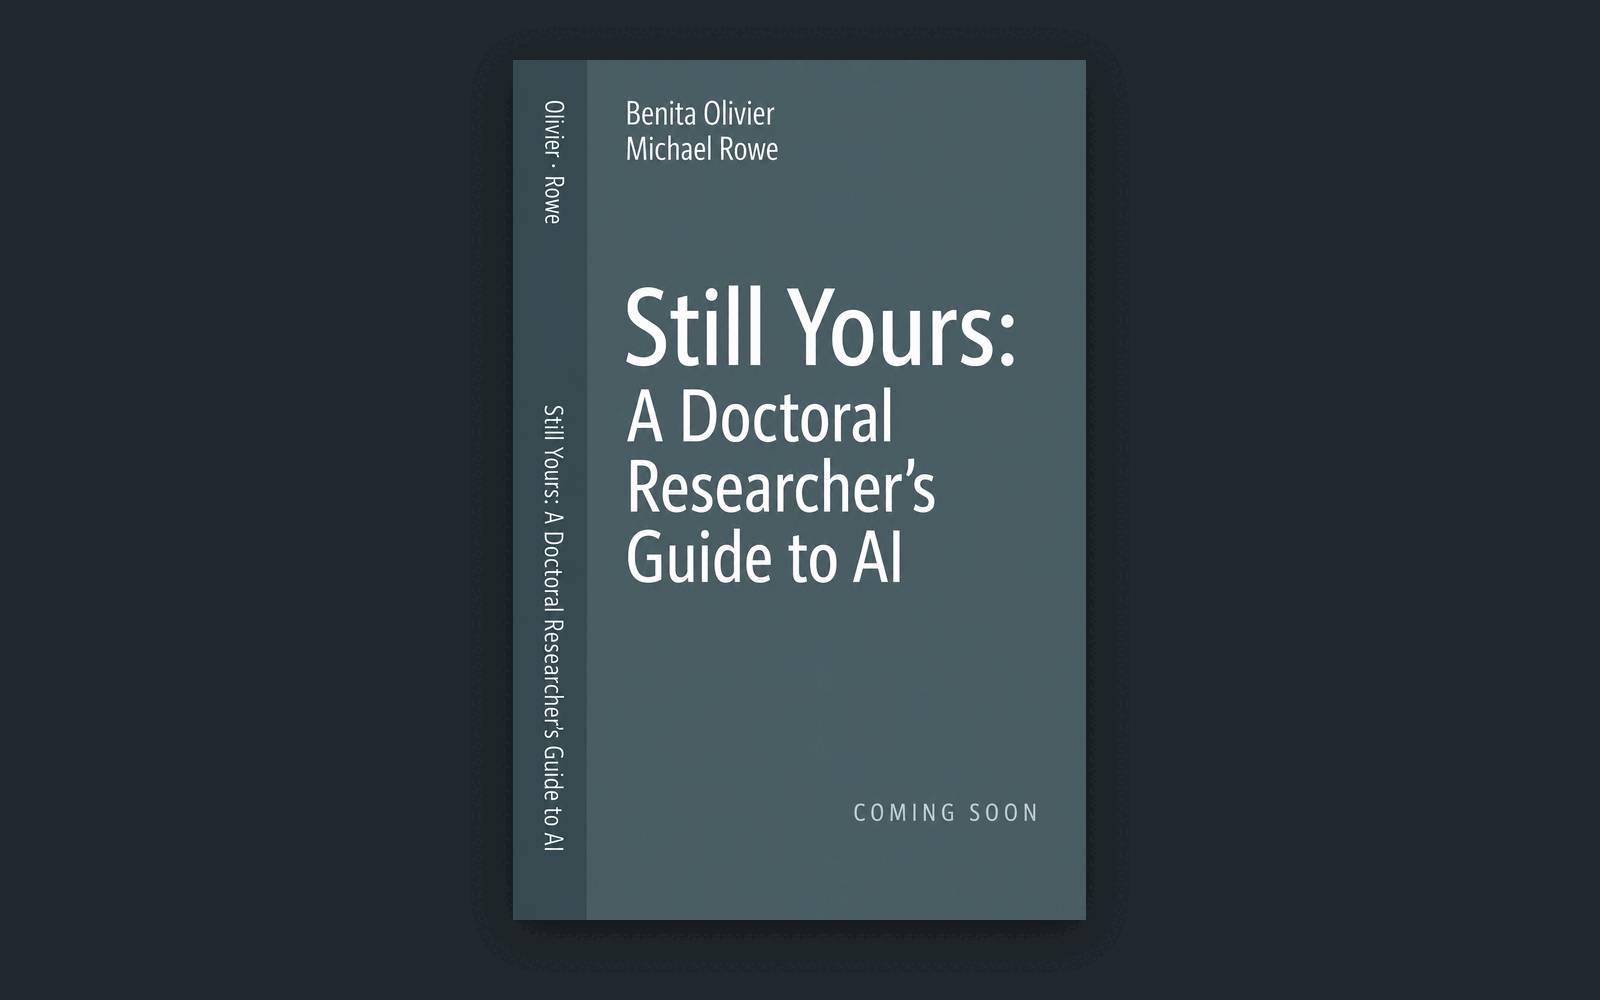
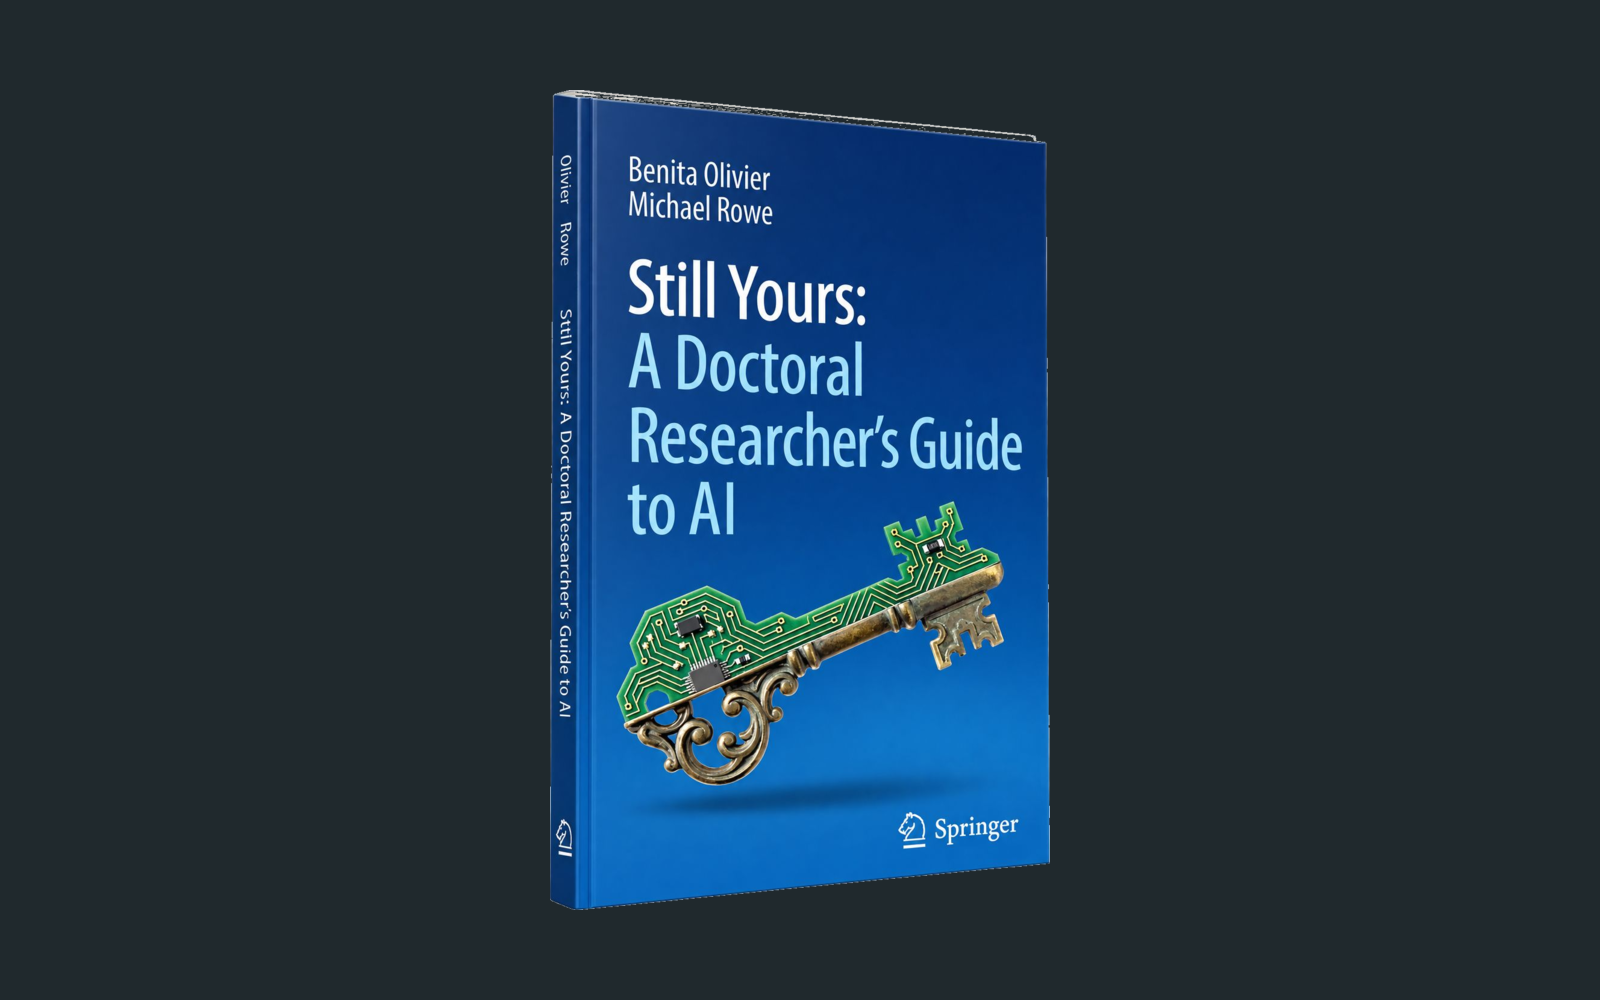
AIPHD: swap the Still Yours mockup for the real Springer cover
The final cover arrived 7 Sep. Cover and home-card images rebuilt from it,
white studio background keyed out so the render sits correctly in both light
and dark themes. Alt text no longer says "mockup"; the card image no longer
carries a baked-in COMING SOON, which the index caption already states.

Not built or deployed - that gates on Michael's review.

diff --git a/content/Projects/still-yours.md b/content/Projects/still-yours.md
@@ -5,7 +5,7 @@ description: "A book written with Benita Olivier for postgraduate researchers, o
 meta-description: A book with Benita Olivier on using AI in postgraduate research without losing the development a research degree exists to produce.
 author: "[[Michael Rowe]]"
 created: 2026-08-17
-updated: 2026-08-17
+updated: 2026-09-14
 status: In production
 role: Co-author, with Benita Olivier
 tags:
@@ -31,7 +31,7 @@ linkedin:
 
 <div class="float-figure">
 
-![[Media/still-yours-cover.png|Still Yours: A Doctoral Researcher's Guide to AI — cover mockup, Benita Olivier and Michael Rowe]]
+![[Media/still-yours-cover.png|Still Yours: A Doctoral Researcher's Guide to AI — Springer Nature cover, Benita Olivier and Michael Rowe]]
 
 </div>
 
